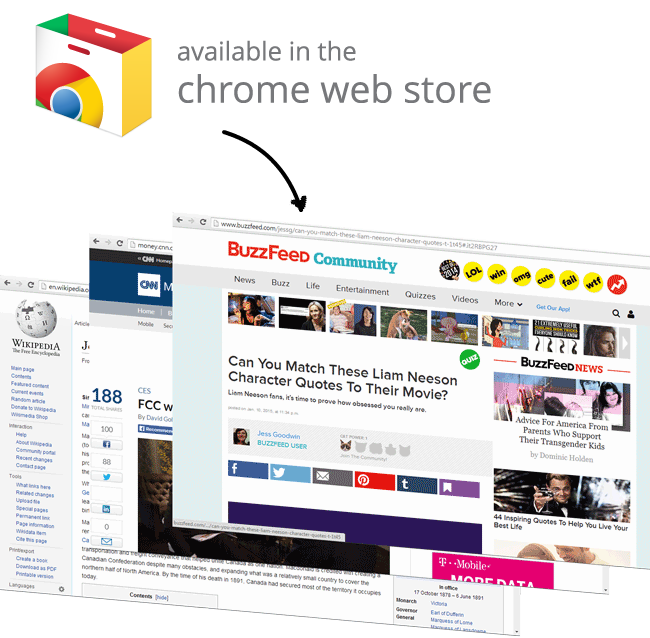
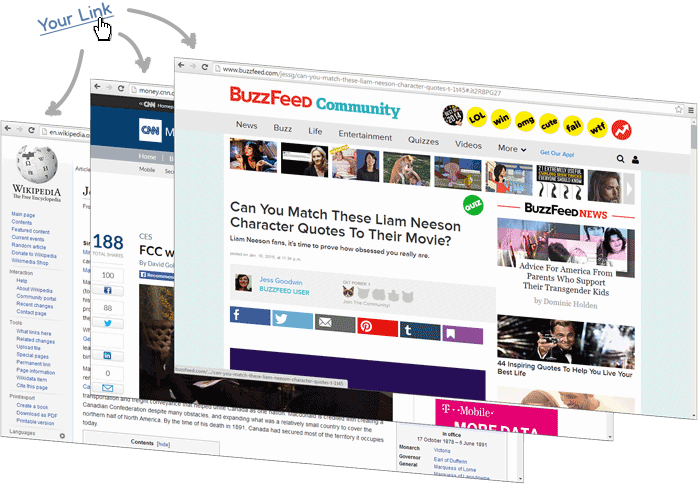
update chrome webstore image (2nd)
also increases width of the image section to 6 columns

diff --git a/get-started.html b/get-started.html
@@ -152,7 +152,7 @@
 
           </div>
 
-          <div class="col-lg-5 col-sm-pull-6 col-sm-6">
+          <div class="col-lg-6 col-sm-pull-6 col-sm-6">
             <a id="chrome-store-img" href="https://chrome.google.com/webstore/detail/betterlink/igdempgllbmcpcjpljjgkijpmiphcdoi"><img class="img-responsive" src="/images/store_to_web.png" alt="available in the chrome web store"></a>
           </div>
         </div><!-- /.row -->
